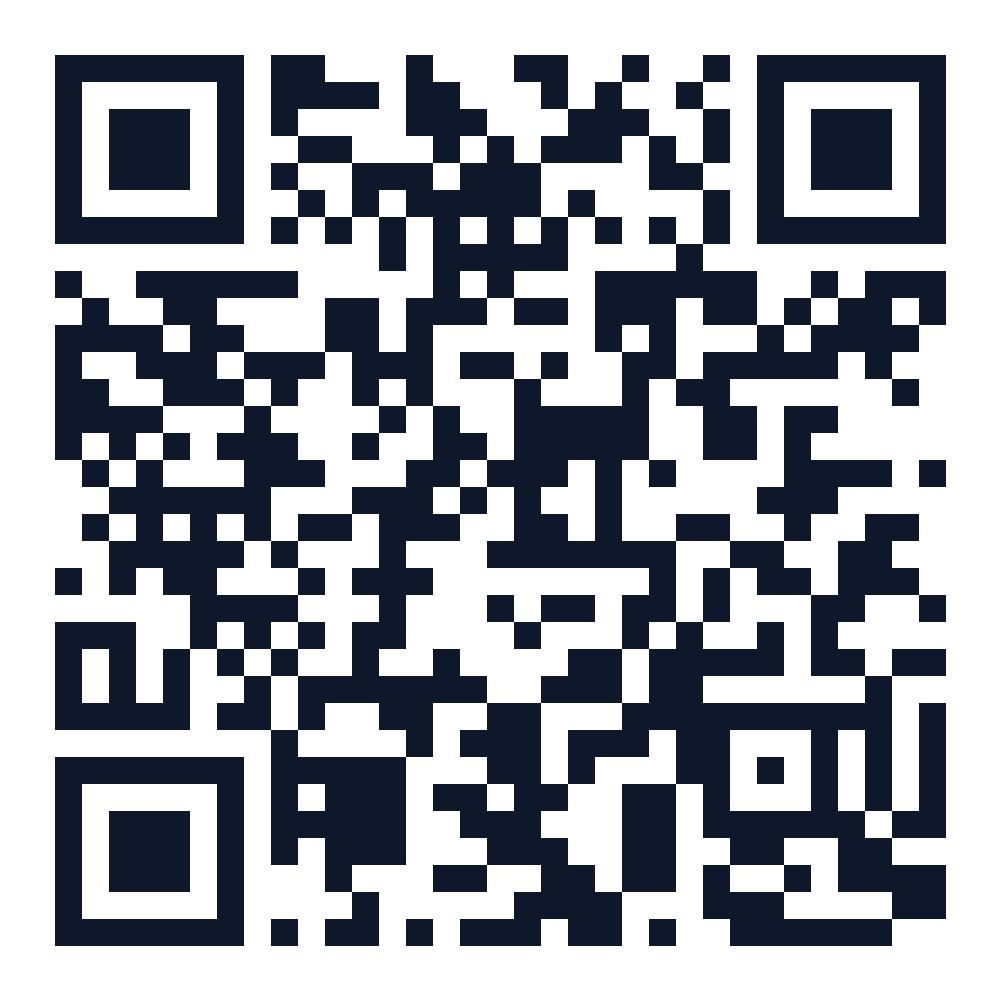
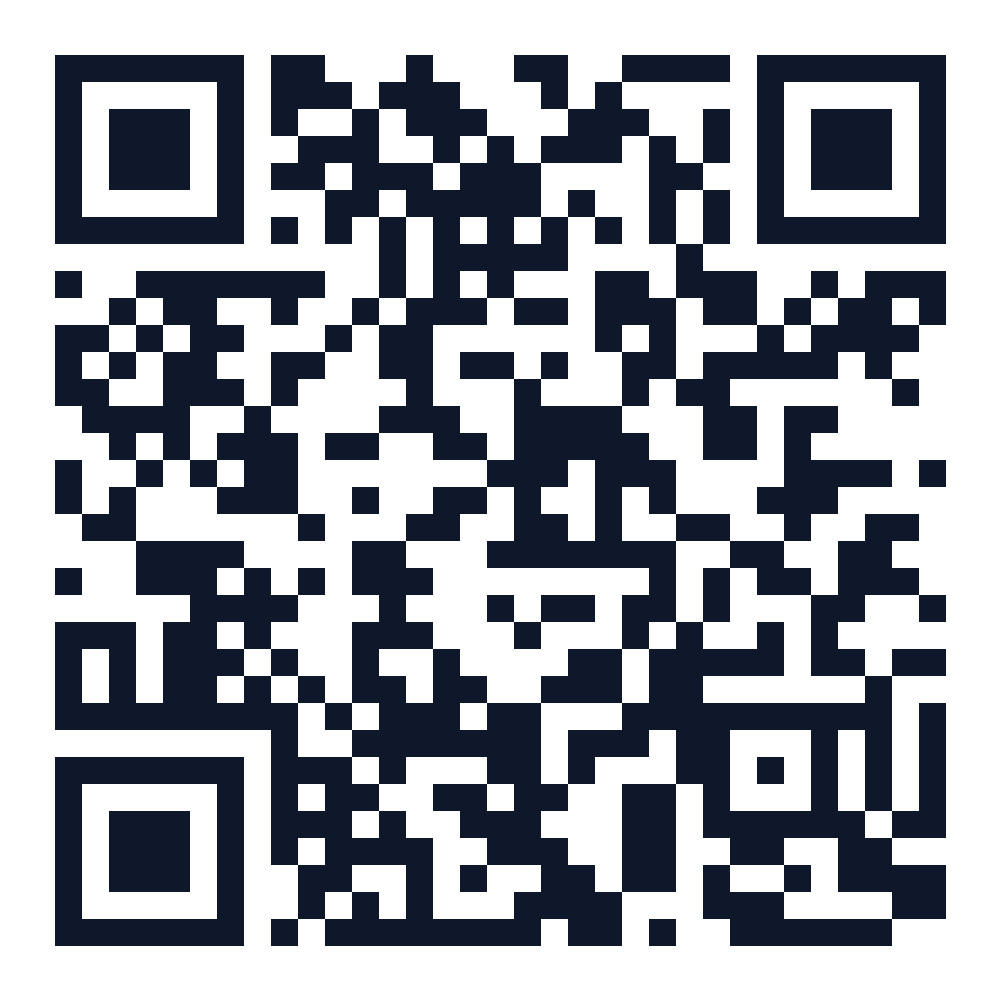
Update axios dynamic base URL for mobile Vercel access

diff --git a/frontend/src/api/axiosConfig.js b/frontend/src/api/axiosConfig.js
@@ -1,7 +1,21 @@
 import axios from 'axios';
 
+// Dynamic API Base URL detection:
+// - Uses VITE_API_BASE_URL environment variable if configured
+// - If accessed on mobile via Vercel/Network, falls back to local machine network IP (172.16.2.65)
+// - If accessed on local machine, uses localhost:8080
+const getBaseURL = () => {
+  if (import.meta.env.VITE_API_BASE_URL) {
+    return import.meta.env.VITE_API_BASE_URL;
+  }
+  if (typeof window !== 'undefined' && window.location.hostname !== 'localhost' && window.location.hostname !== '127.0.0.1') {
+    return 'http://172.16.2.65:8080/api';
+  }
+  return 'http://localhost:8080/api';
+};
+
 const api = axios.create({
-  baseURL: 'http://localhost:8080/api',
+  baseURL: getBaseURL(),
   headers: {
     'Content-Type': 'application/json',
   },

diff --git a/frontend/generate_vercel_qrs.js b/frontend/generate_vercel_qrs.js
@@ -1,0 +1,24 @@
+import QRCode from 'qrcode';
+
+const vercelBaseUrl = 'https://anapoorna.vercel.app';
+
+const targets = [
+  { name: 'vercel_qr_app.png', url: vercelBaseUrl },
+  { name: 'vercel_qr_register_all.png', url: `${vercelBaseUrl}/register` },
+  { name: 'vercel_qr_register_donor.png', url: `${vercelBaseUrl}/register?role=DONOR` },
+  { name: 'vercel_qr_register_ngo.png', url: `${vercelBaseUrl}/register?role=NGO` }
+];
+
+targets.forEach(t => {
+  QRCode.toFile(t.name, t.url, {
+    color: {
+      dark: '#0f172a',
+      light: '#ffffff'
+    },
+    width: 1000,
+    margin: 2
+  }, function (err) {
+    if (err) throw err;
+    console.log(`Vercel QR generated: ${t.name} -> ${t.url}`);
+  });
+});

diff --git a/frontend/generate_qr.js b/frontend/generate_qr.js
@@ -1,6 +1,6 @@
 import QRCode from 'qrcode';
 
-const localIp = '172.16.4.13';
+const localIp = '172.16.2.65';
 const localUrl = `http://${localIp}:5173`;
 
 QRCode.toFile('qr_code.png', localUrl, {

diff --git a/frontend/generate_registration_qrs.js b/frontend/generate_registration_qrs.js
@@ -1,6 +1,6 @@
 import QRCode from 'qrcode';
 
-const localIp = '172.16.4.13';
+const localIp = '172.16.2.65';
 const baseUrl = `http://${localIp}:5173`;
 
 const targets = [
